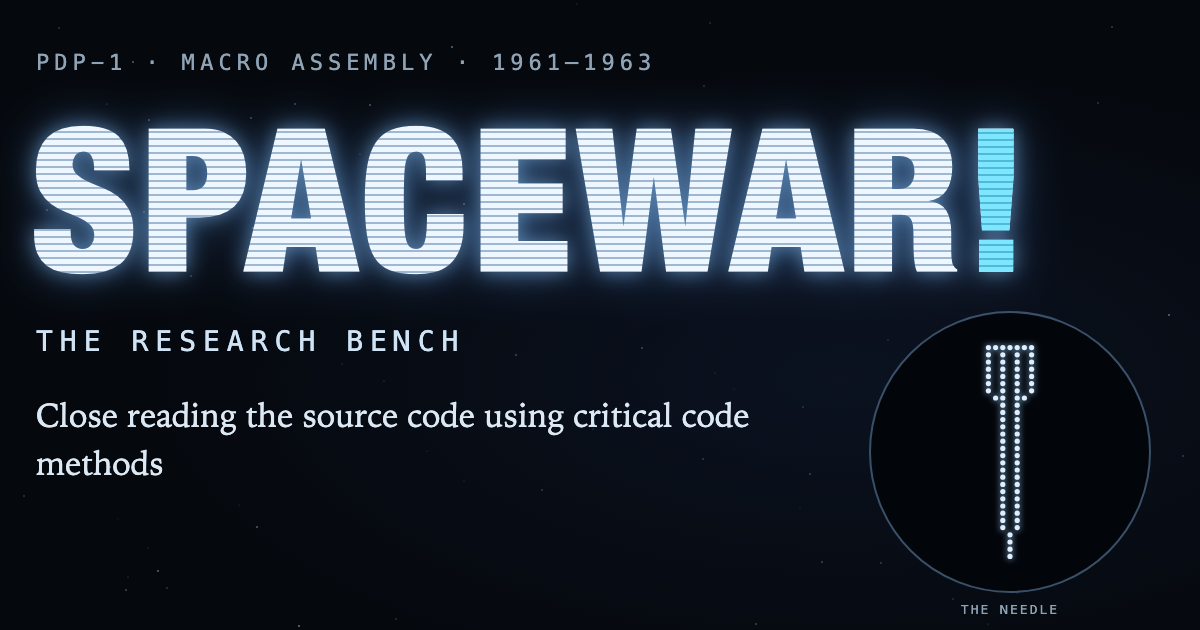
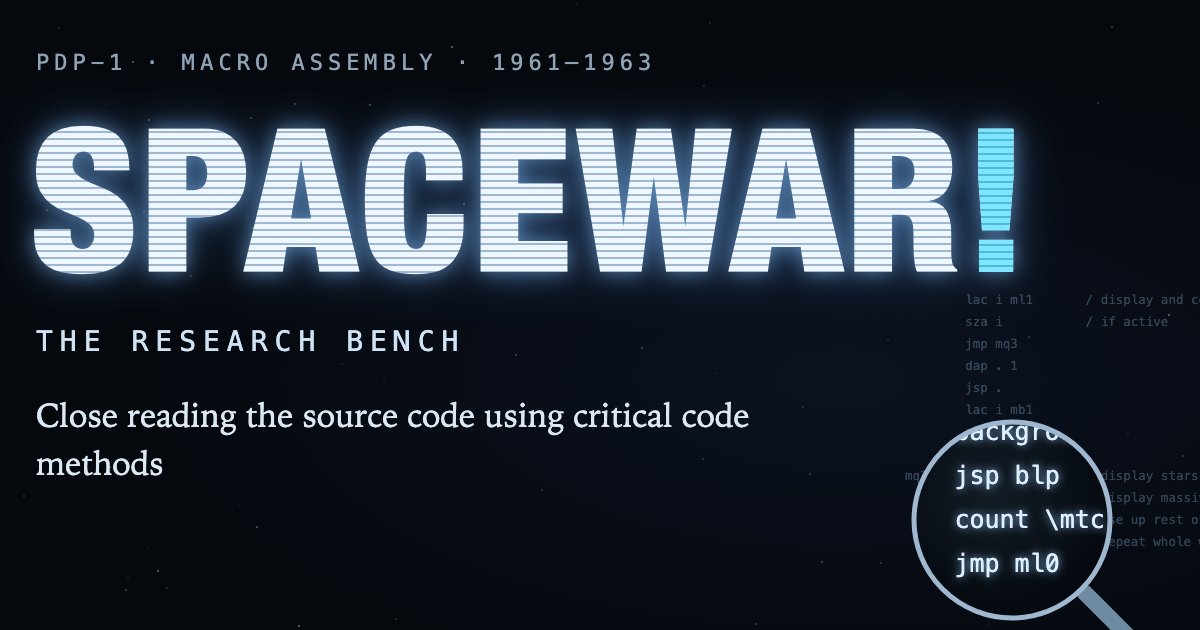
Bench 1.14.21: share card with a magnifying glass over 3.1's main loop

Changed region(s): [[0.74, 0.4524, 1.0, 1.0], [0.925, 0.4524, 0.9867, 0.4825], [0.8942, 0.5127, 0.925, 0.5429]]

diff --git a/research/img/og-card.html b/research/img/og-card.html
@@ -9,14 +9,19 @@ svg.bg{position:absolute;inset:0}
 .t b{background:repeating-linear-gradient(to bottom,#7fe6ff 0 5px,#4fb9d6 5px 7px);-webkit-background-clip:text;background-clip:text;-webkit-text-fill-color:transparent}
 .sub{position:absolute;left:36px;top:328px;font:500 28px/1 "SF Mono",Menlo,monospace;letter-spacing:7px;color:#cfe3f5}
 .body{position:absolute;left:36px;top:392px;width:760px;font:400 33px/1.45 "Iowan Old Style",Palatino,Georgia,serif;color:#dce8f3}
-.cap{position:absolute;left:880px;top:603px;width:260px;text-align:center;font:500 13px/1 "SF Mono",Menlo,monospace;letter-spacing:2px;color:#8fa3b5}
+.cap{position:absolute;left:915px;top:592px;width:260px;text-align:center;font:500 13px/1 "SF Mono",Menlo,monospace;letter-spacing:2px;color:#8fa3b5}
 </style></head><body><div class="c">
 <svg class="bg" width="1200" height="630"><circle cx="663" cy="154" r="0.8" fill="#cfe6ff" opacity="0.38"/><circle cx="148" cy="548" r="0.6" fill="#cfe6ff" opacity="0.28"/><circle cx="118" cy="519" r="0.6" fill="#cfe6ff" opacity="0.16"/><circle cx="888" cy="428" r="0.6" fill="#cfe6ff" opacity="0.23"/><circle cx="1128" cy="434" r="0.6" fill="#cfe6ff" opacity="0.44"/><circle cx="253" cy="228" r="1.0" fill="#cfe6ff" opacity="0.37"/><circle cx="126" cy="590" r="1.0" fill="#cfe6ff" opacity="0.29"/><circle cx="452" cy="47" r="1.0" fill="#cfe6ff" opacity="0.45"/><circle cx="593" cy="429" r="0.6" fill="#cfe6ff" opacity="0.34"/><circle cx="1169" cy="315" r="1.0" fill="#cfe6ff" opacity="0.44"/><circle cx="370" cy="105" r="1.0" fill="#cfe6ff" opacity="0.35"/><circle cx="384" cy="381" r="0.6" fill="#cfe6ff" opacity="0.34"/><circle cx="128" cy="577" r="0.6" fill="#cfe6ff" opacity="0.37"/><circle cx="1016" cy="544" r="0.8" fill="#cfe6ff" opacity="0.42"/><circle cx="953" cy="599" r="0.8" fill="#cfe6ff" opacity="0.28"/><circle cx="508" cy="184" r="1.0" fill="#cfe6ff" opacity="0.42"/><circle cx="167" cy="588" r="0.8" fill="#cfe6ff" opacity="0.33"/><circle cx="703" cy="459" r="0.8" fill="#cfe6ff" opacity="0.36"/><circle cx="149" cy="120" r="1.0" fill="#cfe6ff" opacity="0.30"/><circle cx="700" cy="155" r="0.8" fill="#cfe6ff" opacity="0.30"/><circle cx="158" cy="571" r="1.0" fill="#cfe6ff" opacity="0.43"/><circle cx="642" cy="348" r="1.0" fill="#cfe6ff" opacity="0.27"/><circle cx="1017" cy="593" r="0.8" fill="#cfe6ff" opacity="0.17"/><circle cx="191" cy="276" r="0.8" fill="#cfe6ff" opacity="0.39"/><circle cx="133" cy="62" r="1.0" fill="#cfe6ff" opacity="0.40"/><circle cx="1183" cy="456" r="0.8" fill="#cfe6ff" opacity="0.40"/><circle cx="710" cy="23" r="0.8" fill="#cfe6ff" opacity="0.27"/><circle cx="239" cy="505" r="0.6" fill="#cfe6ff" opacity="0.23"/><circle cx="588" cy="132" r="1.0" fill="#cfe6ff" opacity="0.24"/><circle cx="800" cy="508" r="0.6" fill="#cfe6ff" opacity="0.21"/><circle cx="822" cy="562" r="0.8" fill="#cfe6ff" opacity="0.46"/><circle cx="881" cy="563" r="0.8" fill="#cfe6ff" opacity="0.40"/><circle cx="734" cy="389" r="0.6" fill="#cfe6ff" opacity="0.20"/><circle cx="360" cy="154" r="0.6" fill="#cfe6ff" opacity="0.38"/><circle cx="24" cy="496" r="1.0" fill="#cfe6ff" opacity="0.21"/><circle cx="577" cy="4" r="0.6" fill="#cfe6ff" opacity="0.30"/><circle cx="756" cy="624" r="1.0" fill="#cfe6ff" opacity="0.26"/><circle cx="257" cy="527" r="1.0" fill="#cfe6ff" opacity="0.38"/><circle cx="110" cy="467" r="1.0" fill="#cfe6ff" opacity="0.43"/><circle cx="803" cy="407" r="0.8" fill="#cfe6ff" opacity="0.29"/><circle cx="986" cy="410" r="0.6" fill="#cfe6ff" opacity="0.22"/><circle cx="427" cy="451" r="0.6" fill="#cfe6ff" opacity="0.19"/><circle cx="107" cy="104" r="0.6" fill="#cfe6ff" opacity="0.35"/><circle cx="1098" cy="103" r="0.8" fill="#cfe6ff" opacity="0.36"/><circle cx="144" cy="212" r="1.0" fill="#cfe6ff" opacity="0.28"/><circle cx="516" cy="355" r="1.0" fill="#cfe6ff" opacity="0.28"/><circle cx="251" cy="118" r="0.8" fill="#cfe6ff" opacity="0.50"/><circle cx="954" cy="491" r="0.8" fill="#cfe6ff" opacity="0.26"/><circle cx="295" cy="104" r="1.0" fill="#cfe6ff" opacity="0.27"/><circle cx="542" cy="490" r="1.0" fill="#cfe6ff" opacity="0.21"/><circle cx="47" cy="210" r="1.0" fill="#cfe6ff" opacity="0.28"/><circle cx="1112" cy="27" r="1.0" fill="#cfe6ff" opacity="0.25"/><circle cx="186" cy="267" r="1.0" fill="#cfe6ff" opacity="0.28"/><circle cx="342" cy="364" r="0.6" fill="#cfe6ff" opacity="0.34"/><circle cx="1029" cy="337" r="1.0" fill="#cfe6ff" opacity="0.23"/><circle cx="399" cy="245" r="0.8" fill="#cfe6ff" opacity="0.41"/><circle cx="464" cy="204" r="1.0" fill="#cfe6ff" opacity="0.32"/><circle cx="59" cy="28" r="0.8" fill="#cfe6ff" opacity="0.32"/><circle cx="396" cy="619" r="0.8" fill="#cfe6ff" opacity="0.31"/><circle cx="715" cy="373" r="0.6" fill="#cfe6ff" opacity="0.23"/><circle cx="464" cy="481" r="0.6" fill="#cfe6ff" opacity="0.27"/><circle cx="988" cy="624" r="0.6" fill="#cfe6ff" opacity="0.32"/><circle cx="704" cy="86" r="1.0" fill="#cfe6ff" opacity="0.19"/><circle cx="795" cy="204" r="0.8" fill="#cfe6ff" opacity="0.46"/><circle cx="888" cy="340" r="0.6" fill="#cfe6ff" opacity="0.43"/><circle cx="810" cy="474" r="0.8" fill="#cfe6ff" opacity="0.41"/><circle cx="173" cy="162" r="0.6" fill="#cfe6ff" opacity="0.50"/><circle cx="56" cy="154" r="1.0" fill="#cfe6ff" opacity="0.47"/><circle cx="299" cy="626" r="1.0" fill="#cfe6ff" opacity="0.49"/><circle cx="717" cy="159" r="1.0" fill="#cfe6ff" opacity="0.34"/>
-<circle cx="1010" cy="452" r="140" fill="#02050a" stroke="#3a5068" stroke-width="2"/>
-<g fill="#dfeeff" style="filter:drop-shadow(0 0 3px rgba(150,210,255,.9))"><circle cx="1010.0" cy="556.4" r="2.6"/><circle cx="1010.0" cy="549.2" r="2.6"/><circle cx="1010.0" cy="542.0" r="2.6"/><circle cx="1010.0" cy="534.8" r="2.6"/><circle cx="1002.8" cy="527.6" r="2.6"/><circle cx="1002.8" cy="520.4" r="2.6"/><circle cx="1002.8" cy="513.2" r="2.6"/><circle cx="1002.8" cy="506.0" r="2.6"/><circle cx="1002.8" cy="498.8" r="2.6"/><circle cx="1002.8" cy="491.6" r="2.6"/><circle cx="1002.8" cy="484.4" r="2.6"/><circle cx="1002.8" cy="477.2" r="2.6"/><circle cx="1002.8" cy="470.0" r="2.6"/><circle cx="1002.8" cy="462.8" r="2.6"/><circle cx="1002.8" cy="455.6" r="2.6"/><circle cx="1002.8" cy="448.4" r="2.6"/><circle cx="1002.8" cy="441.2" r="2.6"/><circle cx="1002.8" cy="434.0" r="2.6"/><circle cx="1002.8" cy="426.8" r="2.6"/><circle cx="1002.8" cy="419.6" r="2.6"/><circle cx="1002.8" cy="412.4" r="2.6"/><circle cx="1002.8" cy="405.2" r="2.6"/><circle cx="995.6" cy="398.0" r="2.6"/><circle cx="988.4" cy="390.8" r="2.6"/><circle cx="988.4" cy="383.6" r="2.6"/><circle cx="988.4" cy="376.4" r="2.6"/><circle cx="988.4" cy="369.2" r="2.6"/><circle cx="988.4" cy="362.0" r="2.6"/><circle cx="988.4" cy="354.8" r="2.6"/><circle cx="988.4" cy="347.6" r="2.6"/><circle cx="995.6" cy="347.6" r="2.6"/><circle cx="1002.8" cy="398.0" r="2.6"/><circle cx="1002.8" cy="390.8" r="2.6"/><circle cx="1002.8" cy="383.6" r="2.6"/><circle cx="1002.8" cy="376.4" r="2.6"/><circle cx="1002.8" cy="369.2" r="2.6"/><circle cx="1002.8" cy="362.0" r="2.6"/><circle cx="1002.8" cy="354.8" r="2.6"/><circle cx="1002.8" cy="347.6" r="2.6"/><circle cx="1010.0" cy="347.6" r="2.6"/><circle cx="1017.2" cy="527.6" r="2.6"/><circle cx="1017.2" cy="520.4" r="2.6"/><circle cx="1017.2" cy="513.2" r="2.6"/><circle cx="1017.2" cy="506.0" r="2.6"/><circle cx="1017.2" cy="498.8" r="2.6"/><circle cx="1017.2" cy="491.6" r="2.6"/><circle cx="1017.2" cy="484.4" r="2.6"/><circle cx="1017.2" cy="477.2" r="2.6"/><circle cx="1017.2" cy="470.0" r="2.6"/><circle cx="1017.2" cy="462.8" r="2.6"/><circle cx="1017.2" cy="455.6" r="2.6"/><circle cx="1017.2" cy="448.4" r="2.6"/><circle cx="1017.2" cy="441.2" r="2.6"/><circle cx="1017.2" cy="434.0" r="2.6"/><circle cx="1017.2" cy="426.8" r="2.6"/><circle cx="1017.2" cy="419.6" r="2.6"/><circle cx="1017.2" cy="412.4" r="2.6"/><circle cx="1017.2" cy="405.2" r="2.6"/><circle cx="1024.4" cy="398.0" r="2.6"/><circle cx="1031.6" cy="390.8" r="2.6"/><circle cx="1031.6" cy="383.6" r="2.6"/><circle cx="1031.6" cy="376.4" r="2.6"/><circle cx="1031.6" cy="369.2" r="2.6"/><circle cx="1031.6" cy="362.0" r="2.6"/><circle cx="1031.6" cy="354.8" r="2.6"/><circle cx="1031.6" cy="347.6" r="2.6"/><circle cx="1024.4" cy="347.6" r="2.6"/><circle cx="1017.2" cy="398.0" r="2.6"/><circle cx="1017.2" cy="390.8" r="2.6"/><circle cx="1017.2" cy="383.6" r="2.6"/><circle cx="1017.2" cy="376.4" r="2.6"/><circle cx="1017.2" cy="369.2" r="2.6"/><circle cx="1017.2" cy="362.0" r="2.6"/><circle cx="1017.2" cy="354.8" r="2.6"/><circle cx="1017.2" cy="347.6" r="2.6"/></g></svg>
+<defs><clipPath id="lens"><circle cx="1012" cy="520" r="98"/></clipPath>
+<radialGradient id="glass" cx="40%" cy="35%" r="70%"><stop offset="0" stop-color="#9fd4ff" stop-opacity=".10"/><stop offset="1" stop-color="#9fd4ff" stop-opacity="0"/></radialGradient></defs>
+<g font-family="SF Mono, Menlo, monospace" font-size="12.5" fill="#8fb8d8" opacity=".32"><text x="905" y="304" xml:space="preserve">        lac i ml1       / display and compute last point</text><text x="905" y="326" xml:space="preserve">        sza i           / if active</text><text x="905" y="348" xml:space="preserve">        jmp mq3</text><text x="905" y="370" xml:space="preserve">        dap . 1</text><text x="905" y="392" xml:space="preserve">        jsp .</text><text x="905" y="414" xml:space="preserve">        lac i mb1</text><text x="905" y="436" xml:space="preserve">        add \mtc</text><text x="905" y="458" xml:space="preserve">        dac \mtc</text><text x="905" y="480" xml:space="preserve">mq3,    background      / display stars of the heavens</text><text x="905" y="502" xml:space="preserve">        jsp blp         / display massive star</text><text x="905" y="524" xml:space="preserve">        count \mtc, .   / use up rest of time of main loop</text><text x="905" y="546" xml:space="preserve">        jmp ml0         / repeat whole works</text></g>
+<line x1="1084.5" y1="592.5" x2="1163.9" y2="671.9" stroke="#6f8aa3" stroke-width="16" stroke-linecap="round"/>
+<circle cx="1012" cy="520" r="98" fill="#03070d"/>
+<g clip-path="url(#lens)"><g transform="translate(1012 520) scale(2) translate(-994 -520)" font-family="SF Mono, Menlo, monospace" font-size="12.5" fill="#e3f1ff" style="filter:drop-shadow(0 0 2px rgba(150,210,255,.8))"><text x="905" y="304" xml:space="preserve">        lac i ml1       / display and compute last point</text><text x="905" y="326" xml:space="preserve">        sza i           / if active</text><text x="905" y="348" xml:space="preserve">        jmp mq3</text><text x="905" y="370" xml:space="preserve">        dap . 1</text><text x="905" y="392" xml:space="preserve">        jsp .</text><text x="905" y="414" xml:space="preserve">        lac i mb1</text><text x="905" y="436" xml:space="preserve">        add \mtc</text><text x="905" y="458" xml:space="preserve">        dac \mtc</text><text x="905" y="480" xml:space="preserve">mq3,    background      / display stars of the heavens</text><text x="905" y="502" xml:space="preserve">        jsp blp         / display massive star</text><text x="905" y="524" xml:space="preserve">        count \mtc, .   / use up rest of time of main loop</text><text x="905" y="546" xml:space="preserve">        jmp ml0         / repeat whole works</text></g>
+<circle cx="1012" cy="520" r="98" fill="url(#glass)"/></g>
+<circle cx="1012" cy="520" r="98" fill="none" stroke="#9fb8cf" stroke-width="5"/></svg>
 <div class="top">PDP-1 · MACRO ASSEMBLY · 1961–1963</div>
 <div class="t">SPACEWAR<b>!</b></div>
 <div class="sub">THE RESEARCH BENCH</div>
 <div class="body">Close reading the source code using critical code methods</div>
-<div class="cap">THE NEEDLE</div>
 </div></body></html>

diff --git a/research/index.html b/research/index.html
@@ -28,7 +28,7 @@
        below to the day of the release; the About box shows both. -->
   <meta name="bench-date" content="2026-09-27">
   <link rel="icon" href="img/tape-icon.svg" type="image/svg+xml">
-  <link rel="stylesheet" href="css/research.css?v=1.14.20">
+  <link rel="stylesheet" href="css/research.css?v=1.14.21">
 </head>
 <body>
   <header class="bar">
@@ -169,28 +169,28 @@
 
   <div class="toast" id="toast" role="status" aria-live="polite"></div>
 
-  <script src="js/pdp1asm.js?v=1.14.20"></script>
-  <script src="js/pdp1cpu.js?v=1.14.20"></script>
-  <script src="js/fiodec.js?v=1.14.20"></script>
-  <script src="js/versions.js?v=1.14.20"></script>
-  <script src="js/export.js?v=1.14.20"></script>
-  <script src="js/genealogy.js?v=1.14.20"></script>
-  <script src="js/core.js?v=1.14.20"></script>
-  <script src="js/notes.js?v=1.14.20"></script>
-  <script src="js/tray.js?v=1.14.20"></script>
-  <script src="js/figures.js?v=1.14.20"></script>
-  <script src="js/read.js?v=1.14.20"></script>
-  <script src="js/run.js?v=1.14.20"></script>
-  <script src="js/analyse.js?v=1.14.20"></script>
-  <script src="js/draws.js?v=1.14.20"></script>
-  <script src="js/overview.js?v=1.14.20"></script>
-  <script src="js/compare.js?v=1.14.20"></script>
-  <script src="js/stemma.js?v=1.14.20"></script>
-  <script src="js/tape.js?v=1.14.20"></script>
-  <script src="js/reader.js?v=1.14.20"></script>
-  <script src="js/about.js?v=1.14.20"></script>
-  <script src="js/edition.js?v=1.14.20"></script>
-  <script src="js/findings.js?v=1.14.20"></script>
-  <script src="js/main.js?v=1.14.20"></script>
+  <script src="js/pdp1asm.js?v=1.14.21"></script>
+  <script src="js/pdp1cpu.js?v=1.14.21"></script>
+  <script src="js/fiodec.js?v=1.14.21"></script>
+  <script src="js/versions.js?v=1.14.21"></script>
+  <script src="js/export.js?v=1.14.21"></script>
+  <script src="js/genealogy.js?v=1.14.21"></script>
+  <script src="js/core.js?v=1.14.21"></script>
+  <script src="js/notes.js?v=1.14.21"></script>
+  <script src="js/tray.js?v=1.14.21"></script>
+  <script src="js/figures.js?v=1.14.21"></script>
+  <script src="js/read.js?v=1.14.21"></script>
+  <script src="js/run.js?v=1.14.21"></script>
+  <script src="js/analyse.js?v=1.14.21"></script>
+  <script src="js/draws.js?v=1.14.21"></script>
+  <script src="js/overview.js?v=1.14.21"></script>
+  <script src="js/compare.js?v=1.14.21"></script>
+  <script src="js/stemma.js?v=1.14.21"></script>
+  <script src="js/tape.js?v=1.14.21"></script>
+  <script src="js/reader.js?v=1.14.21"></script>
+  <script src="js/about.js?v=1.14.21"></script>
+  <script src="js/edition.js?v=1.14.21"></script>
+  <script src="js/findings.js?v=1.14.21"></script>
+  <script src="js/main.js?v=1.14.21"></script>
 </body>
 </html>
